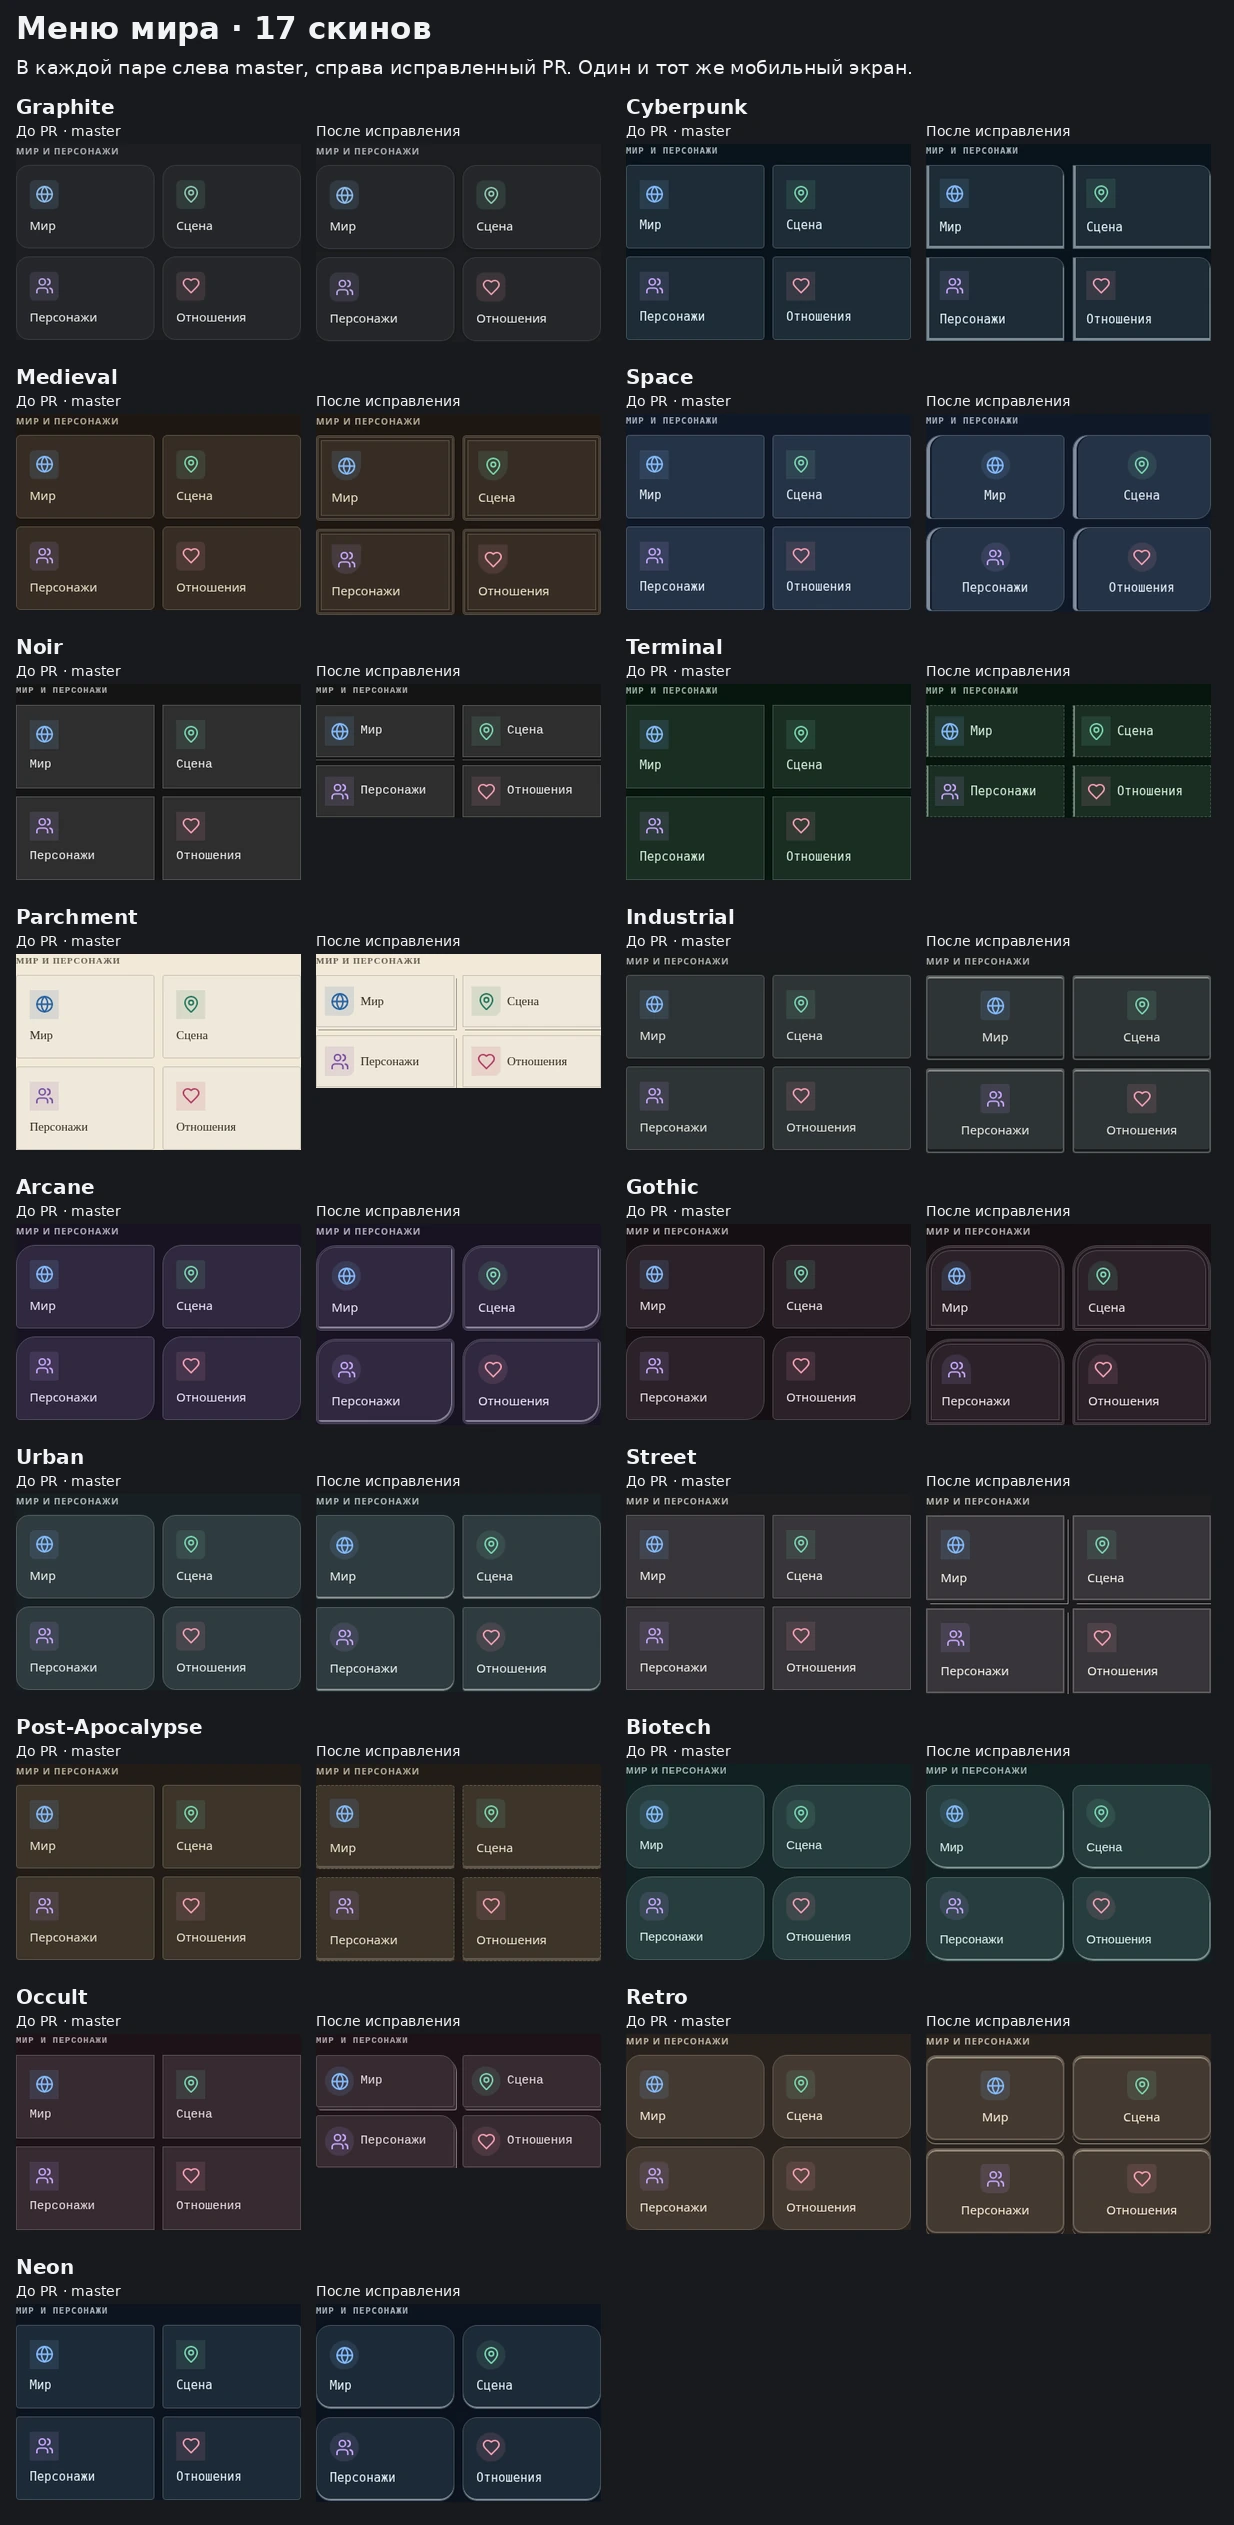
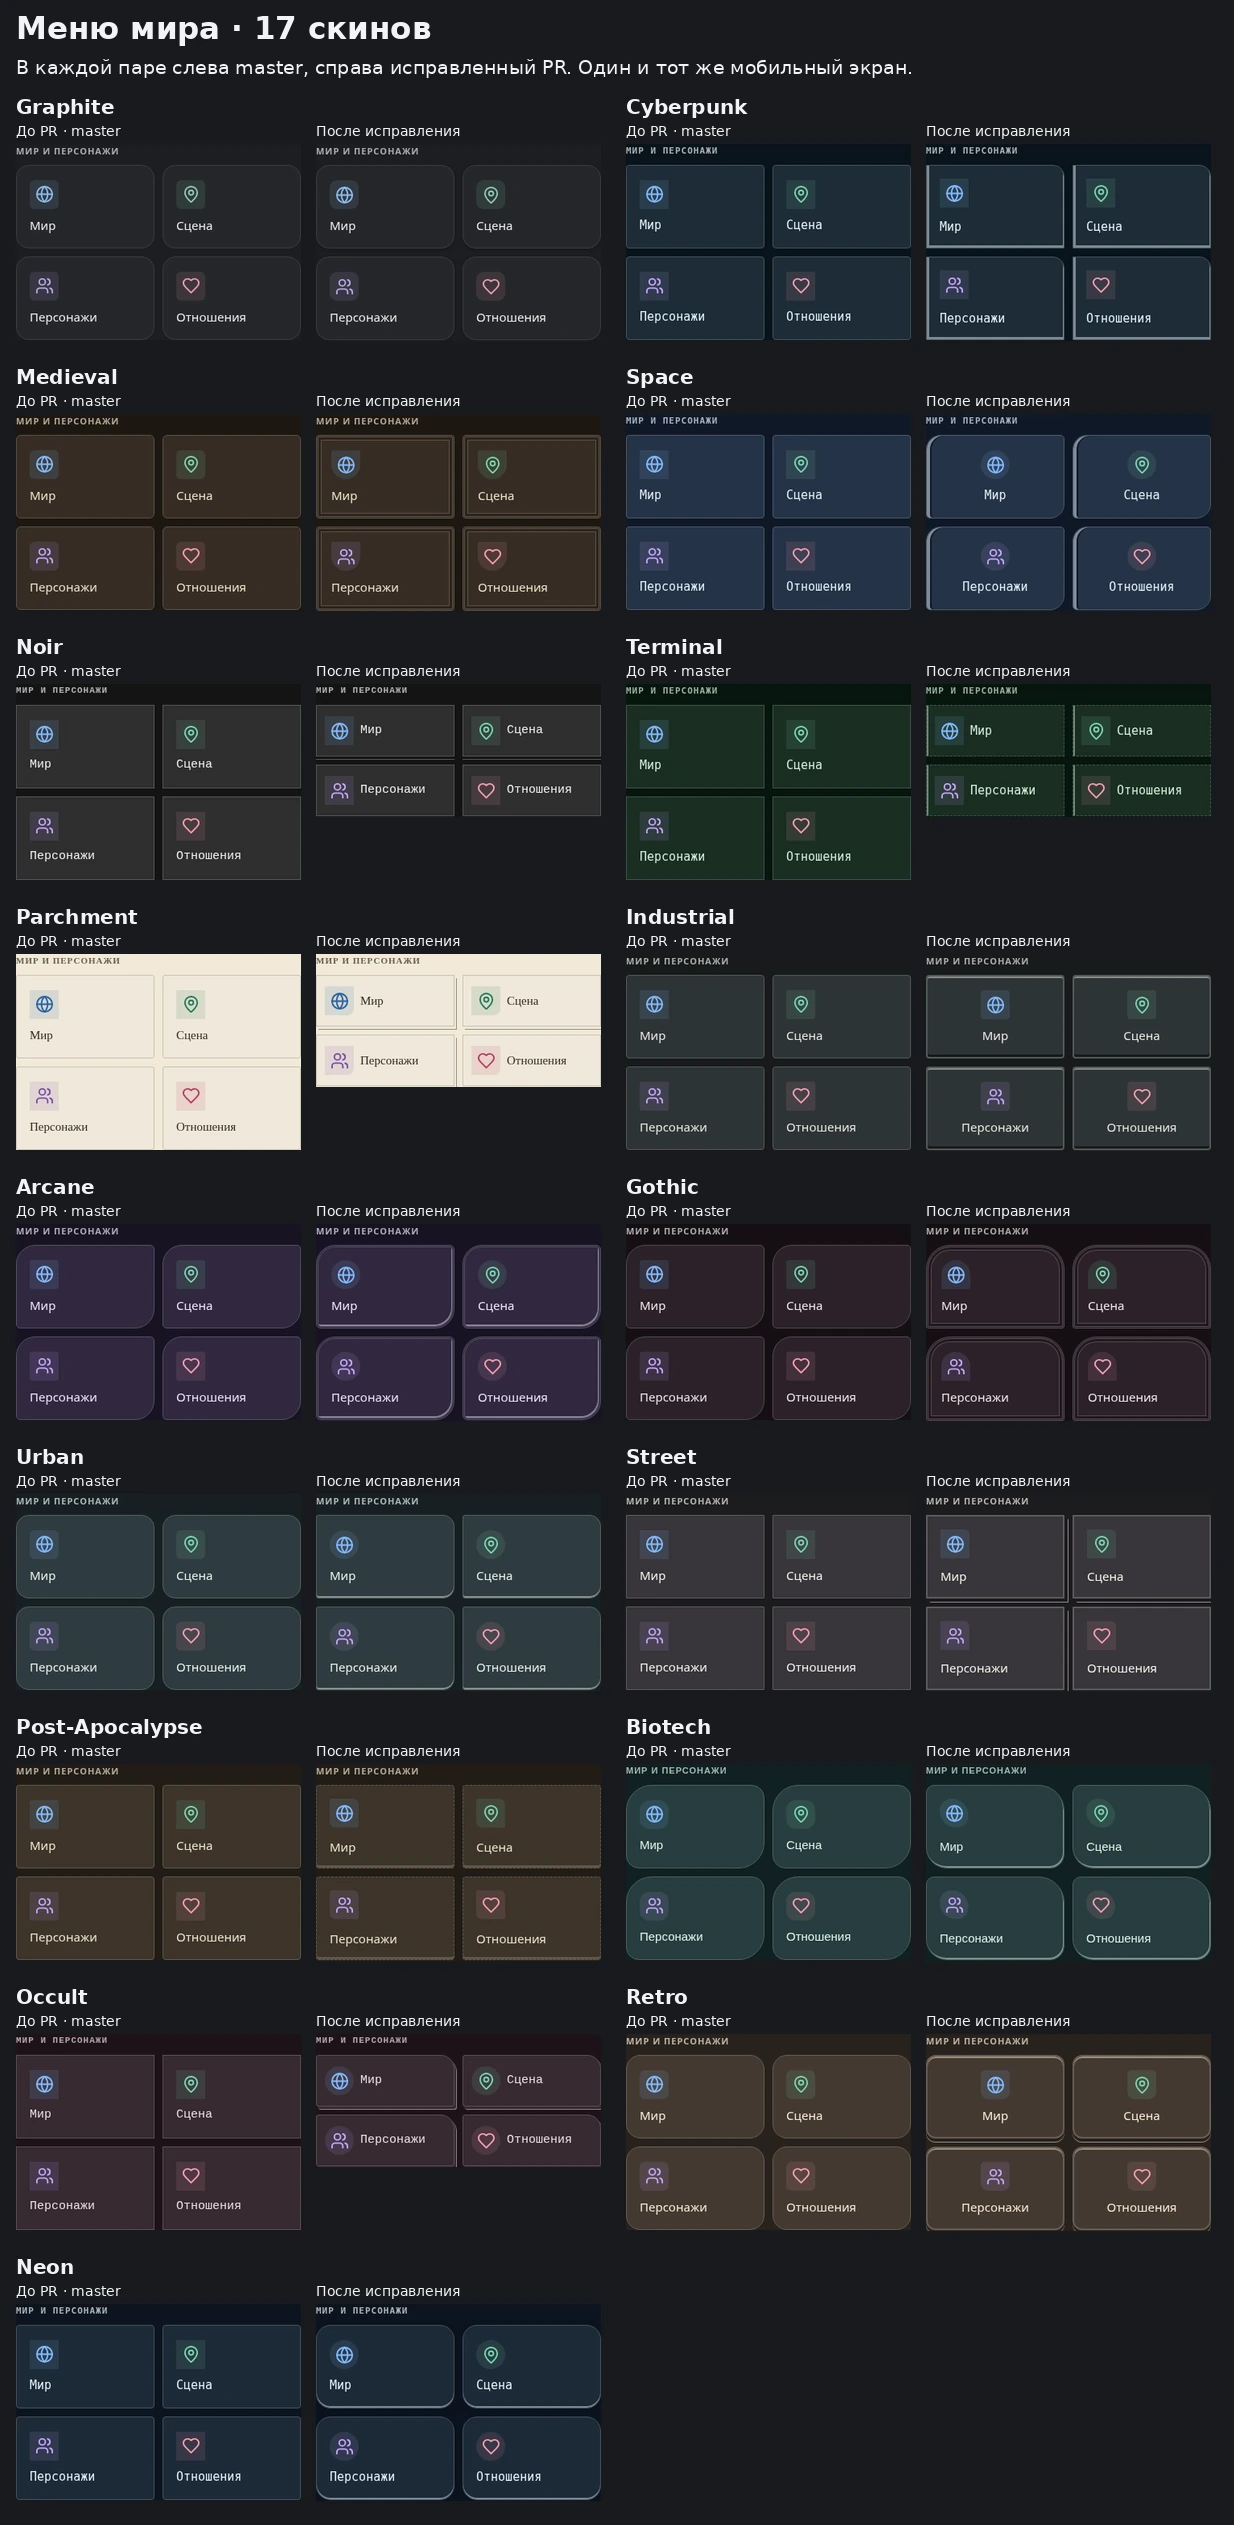
Let full-screen dialogs opt out of the skin frame

diff --git a/frontend/src/styles/chat.css b/frontend/src/styles/chat.css
@@ -55,7 +55,7 @@
  .chat-column{padding:16px max(16px,env(safe-area-inset-right)) 16px max(16px,env(safe-area-inset-left));gap:24px}.chat-message .prose{font-size:17px;line-height:1.75}.chat-message>header{flex-wrap:wrap;gap:4px 10px}.chat-user{width:95%;padding:12px 14px}.chat-user .prose{font-size:15px}.chat-message footer{margin-top:4px;flex-wrap:wrap}
  .chat-composer{padding:6px max(12px,env(safe-area-inset-right)) max(6px,env(safe-area-inset-bottom)) max(12px,env(safe-area-inset-left));display:grid;grid-template-columns:minmax(0,1fr) 44px;gap:6px;border-top:1px solid var(--border)}.chat-composer textarea{grid-column:1;grid-row:1;min-height:56px}.chat-composer-actions{grid-column:2;grid-row:1;flex-direction:column;justify-content:flex-end;margin:0;gap:0}.chat-composer-actions>span.small{display:none}.chat-composer-actions>button{padding:0;width:44px;flex-shrink:0}.chat-composer>p,.chat-composer>button{grid-column:1/-1;margin:0}.chat-composer-actions .chat-icon-button.ui-button{height:44px;min-height:44px}
  .chat-notice{padding:8px 12px;font-size:12px;max-height:180px;overflow:auto}.chat-notice button{font-size:12px;padding:8px}.chat-notice-actions button{flex:1;min-width:0}.chat-mode>.chat-context-warning,.keyboard-open .chat-mode>.chat-context-warning{max-height:none}.chat-draft-links{padding:0 8px}.chat-draft-links button{white-space:normal;min-height:44px}
- .dialog-content.chat-dialog,.dialog-content.chat-memory-dialog{top:var(--app-top,0px);bottom:auto;left:0;transform:none;width:100%;max-width:100%;height:var(--app-height,100dvh);max-height:var(--app-height,100dvh);border-radius:0;border:0;padding:max(12px,env(safe-area-inset-top)) max(12px,env(safe-area-inset-right)) max(12px,env(safe-area-inset-bottom)) max(12px,env(safe-area-inset-left));gap:12px}
+ .dialog-content.chat-dialog,.dialog-content.chat-memory-dialog{top:var(--app-top,0px);bottom:auto;left:0;transform:none;width:100%;max-width:100%;height:var(--app-height,100dvh);max-height:var(--app-height,100dvh);border-radius:0;--dialog-border-style:none;border:0 var(--dialog-border-style);padding:max(12px,env(safe-area-inset-top)) max(12px,env(safe-area-inset-right)) max(12px,env(safe-area-inset-bottom)) max(12px,env(safe-area-inset-left));gap:12px}
  .chat-dialog .dialog-header{padding-right:44px;padding-bottom:10px;border-bottom:1px solid var(--border)}.chat-dialog .dialog-title{font-size:20px;margin:0 0 4px;line-height:1.25}.chat-dialog .dialog-description{font-size:12px;line-height:1.5}.chat-dialog .dialog-close{top:max(6px,env(safe-area-inset-top));right:max(6px,env(safe-area-inset-right));width:44px;height:44px}
  .chat-dialog-body{padding:2px 2px 8px;gap:14px}.chat-dialog textarea{font-size:16px}.chat-dialog .chat-document-input{height:clamp(180px,calc(var(--app-height,100dvh) - 300px),620px);min-height:140px;resize:vertical}.chat-dialog details{padding:4px 10px}.chat-dialog button{min-height:44px}.chat-settings-grid,.chat-memory-columns{grid-template-columns:1fr;gap:12px}.chat-settings-editor fieldset{padding:12px}.chat-campaign-card{flex-direction:column;gap:5px}.chat-creation-methods{grid-template-columns:1fr;gap:6px}.chat-creation-methods button{padding:10px 12px}.chat-memory-tabs button{font-size:12px;padding:6px 2px}
  .keyboard-open .chat-toolbar,.keyboard-open .chat-budget,.keyboard-open .chat-heading>.small{display:none}.keyboard-open .chat-header{min-height:48px}.keyboard-open .chat-dialog .dialog-description{display:none}.keyboard-open .chat-dialog .dialog-header{padding-bottom:6px}.keyboard-open .chat-notice{max-height:100px}

diff --git a/frontend/e2e/mobile-menu126.spec.ts b/frontend/e2e/mobile-menu126.spec.ts
@@ -100,6 +100,36 @@ test('menu: five widths, skins, low viewport and no legacy entries',async({page,
  await page.keyboard.press('Escape');
 });
 
+test('full-screen sheets reach the viewport edges while floating panels retain their skin frame', async ({page, request}) => {
+ const selection = await seed(page, request);
+ await request.put(`/api/worlds/${selection.world}/presentation`, {data: {theme_id: 'medieval'}});
+ await page.reload();
+ await expect(page.locator('html')).toHaveAttribute('data-theme', 'medieval');
+
+ for (const width of [390, 1440, 320]) {
+  const mobile = width < 681;
+  await page.setViewportSize({width, height: 844});
+  if (mobile) {
+   const sheet = await menu(page);
+   await expect(sheet).toHaveCSS('border-width', '0px');
+   await expect(sheet).toHaveCSS('outline-style', 'none');
+   await expect(sheet.locator('.menu-world')).toHaveCSS('border-top-width', '3px');
+   await expect(sheet.locator('.menu-world')).toHaveCSS('border-top-style', 'double');
+   await sheet.getByRole('switch').scrollIntoViewIfNeeded();
+   expect(await sheet.boundingBox()).toEqual({x: 0, y: 0, width, height: 844});
+   await page.keyboard.press('Escape');
+  }
+  await nav(page, 'Настройки');
+  const settings = page.locator('.settings-dialog');
+  await expect(settings).toHaveCSS('border-width', mobile ? '0px' : '3px');
+  await expect(settings).toHaveCSS('border-style', mobile ? 'none' : 'double');
+  await page.keyboard.press('Escape');
+  await page.locator('.nr-worldpicker').click();
+  await expect(page.locator('.library-dialog')).toHaveCSS('border-width', mobile ? '0px' : '3px');
+  await page.keyboard.press('Escape');
+ }
+});
+
 test('phone dock: textarea, keyboard, viewport and safe area stay attached',async({page,request})=>{
  await seed(page,request);
  const dock=async()=>{

diff --git a/frontend/src/styles/narrative-v3.css b/frontend/src/styles/narrative-v3.css
@@ -297,7 +297,7 @@ html[data-no-motion] *,html[data-no-motion] *::before,html[data-no-motion] *::af
 #root .library-dialog .world-card.selected {border-color:var(--accent)}
 #root .phone-scrim.is-open {pointer-events:auto}
 @container app (max-width:680px) {
- #root :is(.settings-dialog,.library-dialog,.current-game-panel,.narrative-more) {position:absolute;inset:0;width:100%;height:100%;max-width:none;max-height:none;transform:none;border:0;border-radius:0;padding:max(20px,env(safe-area-inset-top)) 16px max(16px,env(safe-area-inset-bottom))}
+ #root :is(.settings-dialog,.library-dialog,.current-game-panel,.narrative-more) {position:absolute;inset:0;width:100%;height:100%;max-width:none;max-height:none;transform:none;--dialog-border-style:none;border:0 var(--dialog-border-style);border-radius:0;padding:max(20px,env(safe-area-inset-top)) 16px max(16px,env(safe-area-inset-bottom))}
  #root .current-game-panel .sheet-height-control {display:none}
  #root .settings-dialog input,#root .phone-device :is(input,textarea) {font-size:16px}
 }

diff --git a/frontend/src/styles/skin-components.css b/frontend/src/styles/skin-components.css
@@ -305,7 +305,13 @@ html[data-layout] #root :is(.nr-topbar,.ww-topbar,.inspector-topbar,.mobile-menu
 #root .phone-message {border:var(--rule-width) var(--rule-style) transparent;border-radius:var(--message-shape)}
 #root .phone-message.outgoing {border-inline-end-width:3px}
 #root .phone-day time, #root .ph-demo {border-radius:var(--key-shape);padding:3px 8px}
-#root :is(.dialog-content,.runtime-notice), html[data-layout] [data-sonner-toast].story-toast {
+/* Full-screen dialogs use the shell's edge. Floating dialogs keep the
+   preset frame, independently of the borders on their children. */
+#root .dialog-content {
+  border-width:var(--rule-width);
+  border-style:var(--dialog-border-style,var(--rule-style));
+}
+#root .runtime-notice, html[data-layout] [data-sonner-toast].story-toast {
   border-width:var(--rule-width);
   border-style:var(--rule-style);
 }

diff --git a/frontend/e2e/story-notification-lifecycle180.spec.ts b/frontend/e2e/story-notification-lifecycle180.spec.ts
@@ -56,6 +56,7 @@ for(const theme of ['graphite','parchment']){
  });
  test(`first mount after canonical commit and interrupted first fog view: ${theme}`,async({page,request})=>{
   const s=await setup(page,request,theme);await nav(page,'Создать');
+  await expect(page.locator('.ww-topbar')).toBeVisible();
   const before=await view(request,s);
   const read=await request.post(`/api/saves/${s.save}/phone`,{data:{revision:before.revision,command:{action:'read',event_id:s.event,operation_id:'late-mount180'}}});expect(read.ok(),await read.text()).toBe(true);
   const after=await read.json(),event=after.state.notification_history[0];

diff --git a/frontend/e2e/narrative-skins.spec.ts b/frontend/e2e/narrative-skins.spec.ts
@@ -144,6 +144,7 @@ test('presets preserve Narrative surfaces and the semantic colors of the game me
     await expectPaint('.choices .choice-mark', 'var(--v3-ink, #26241e)', 'var(--accent)');
 
     await page.getByRole('button', {name: 'Меню игры', exact: true}).click();
+    await expect(page.locator('.mobile-game-menu')).toHaveCSS('border-width', '0px');
     await expectPaint('.mobile-game-menu', 'var(--text)', 'var(--bg)');
     await expectPaint('.mobile-menu-resume', 'var(--text)', 'var(--accent-soft)');
     await expectPaint('.menu-world', 'var(--text)', 'var(--surface-2)');

diff --git a/frontend/src/styles/mobile.css b/frontend/src/styles/mobile.css
@@ -344,7 +344,7 @@
  .mobile-game-menu.dialog-content {
   top:var(--app-top,0px);bottom:auto;left:0;transform:none;
   width:100%;max-width:100%;height:var(--app-height,100dvh);max-height:var(--app-height,100dvh);
-  border:0;border-radius:0;padding:0;background:var(--bg);color:var(--text);
+  --dialog-border-style:none;border:0 var(--dialog-border-style);border-radius:0;padding:0;background:var(--bg);color:var(--text);
   display:flex;flex-direction:column;gap:0;overflow:hidden;
   animation:mobile-menu-in var(--transition-fast) var(--ease-out);
  }
